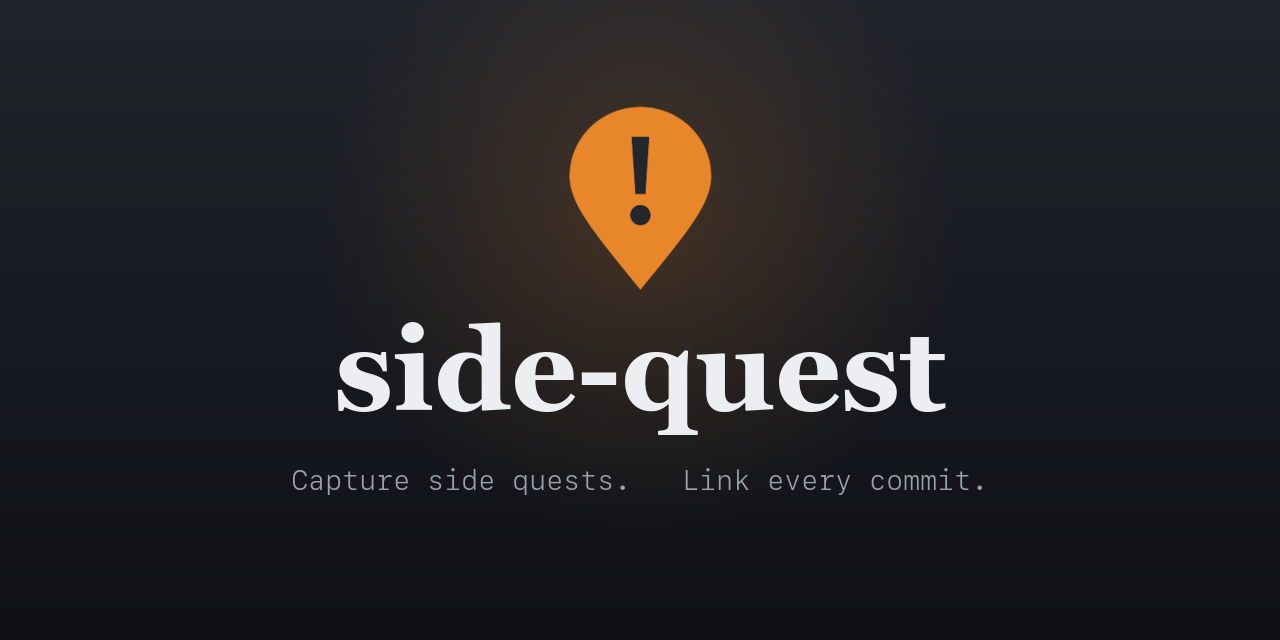
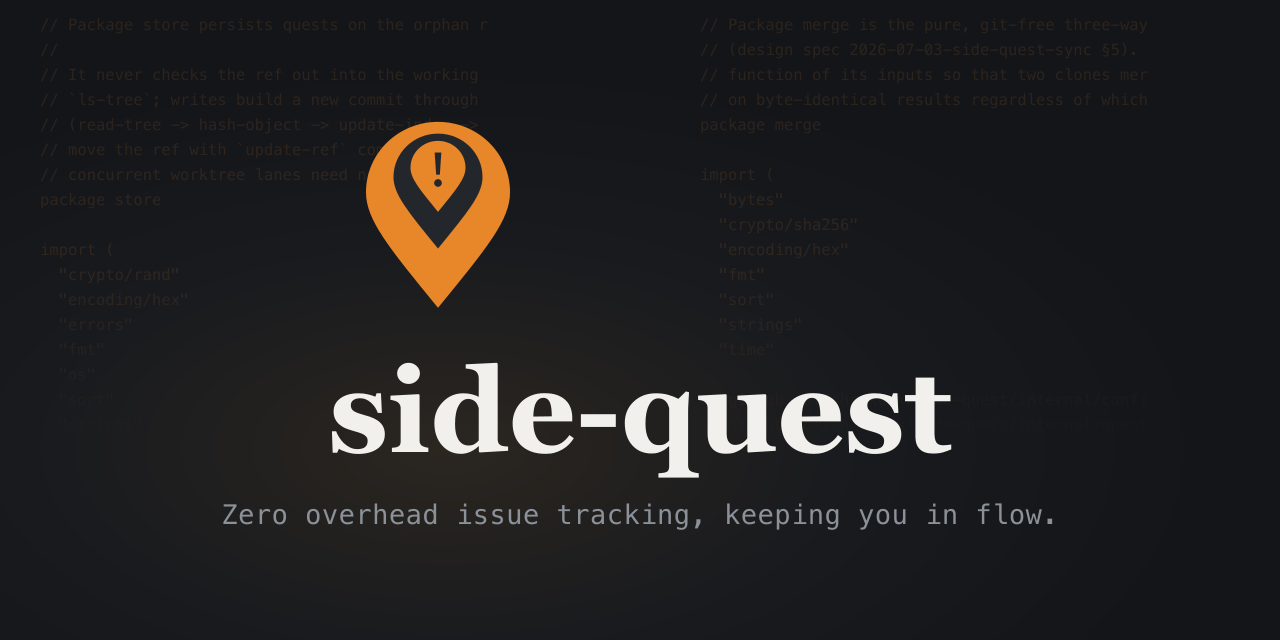
docs: redesign social card with recursive pin + code backdrop (SQ-0061)
Replace the social preview card. The mark is now a self-referencing pin:
its '!' stem is a smaller pin, nested twice at a golden-ratio step down,
with a single '!' at the core. The pin sits above the "side" glyphs, a
dimmed two-column code backdrop (store.go + merge.go) fills the top half
and fades out below, and the new catchphrase reads "Zero overhead issue
tracking, keeping you in flow."

Add docs/social-card.gen.py so the card is reproducible — it emits the SVG
(paths resolve relative to the repo root); render to PNG with rsvg-convert.

Completes: SQ-0061

Claude-Session: https://claude.ai/code/session_01JZYTSMds932GAvtVwWW5Ws

Changed region(s): [[0.2812, 0.0, 0.6562, 0.5], [0.1562, 0.5, 0.8125, 0.8438], [0.5312, 0.8125, 0.5625, 0.8438]]

diff --git a/docs/social-card.gen.py b/docs/social-card.gen.py
@@ -1,0 +1,101 @@
+#!/usr/bin/env python3
+"""Generate the side-quest social preview card (docs/social-card.png), SQ-0061.
+
+Emits the card SVG to stdout. Source-code backdrop is read from the repo, so
+run it from anywhere — paths resolve relative to this file. Regenerate with:
+
+    python3 docs/social-card.gen.py > docs/social-card.svg
+    rsvg-convert -w 1280 -h 640 docs/social-card.svg -o docs/social-card.png
+
+Fonts used (system): Georgia (wordmark), Menlo (backdrop + catchphrase).
+"""
+import html, sys
+from pathlib import Path
+
+ROOT = Path(__file__).resolve().parent.parent  # repo root (docs/..)
+
+W, H = 1280, 640
+ORANGE = "#e8862a"
+INK = "#23262b"
+WORD = "#f2f0ec"
+TAG = "#8a9199"
+
+# The brand mark, a location pin containing an exclamation, in a 64x64 space.
+PIN = ("M32 4.5c11.9 0 21.5 9.4 21.5 21 0 8.2-6.6 16.3-21.5 34.5"
+       "C17.1 41.8 10.5 33.7 10.5 25.5c0-11.6 9.6-21 21.5-21Z")
+BANG = "M29.4 13.6h5.2l-1.15 17.3h-2.9Z"
+
+# --- recursive mark: a pin whose '!' stem is a smaller pin (Droste) --------
+# n = number of pins (outer + inner). n=3 -> outer + two inner marks.
+K = (5 ** 0.5 - 1) / 2   # 1/phi ~ 0.618: each inner pin is a golden-ratio step down
+CY = 25.0                # nested-pin centre (parent space)
+
+def mark(n):
+    pin_fill = ORANGE if n % 2 == 1 else INK
+    ink_fill = INK if n % 2 == 1 else ORANGE
+    parts = [f'<path fill="{pin_fill}" d="{PIN}"/>']
+    if n > 1:
+        tx, ty = 32 - 32 * K, CY - 32 * K
+        parts.append(f'<g transform="translate({tx:.3f},{ty:.3f}) scale({K})">'
+                     f'{mark(n-1)}</g>')
+    else:
+        # only the innermost pin carries a '!' (bar + dot); no trailing dots
+        parts.append(f'<path fill="{ink_fill}" d="{BANG}"/>')
+        parts.append(f'<circle fill="{ink_fill}" cx="32" cy="37.4" r="3"/>')
+    return "".join(parts)
+
+# --- source-code backdrop (two columns, top half, faded out below) ---------
+def col(rel, start, count, x, width=48):
+    out = []
+    y = 30
+    lines = (ROOT / rel).read_text().splitlines()
+    for ln in lines[start:start + count]:
+        ln = ln.replace("\t", "  ")[:width]
+        out.append(f'<text x="{x}" y="{y}" xml:space="preserve">{html.escape(ln)}</text>')
+        y += 25
+    return "\n".join(out)
+
+code = col("internal/store/store.go", 0, 22, 40) + "\n" + \
+       col("internal/merge/merge.go", 0, 22, 700)
+
+svg = f'''<svg xmlns="http://www.w3.org/2000/svg" width="{W}" height="{H}" viewBox="0 0 {W} {H}">
+  <defs>
+    <radialGradient id="glow" cx="35%" cy="70%" r="60%">
+      <stop offset="0%" stop-color="#2b2620"/>
+      <stop offset="55%" stop-color="#181a1e"/>
+      <stop offset="100%" stop-color="#131519"/>
+    </radialGradient>
+    <linearGradient id="codefade" x1="0" y1="0" x2="0" y2="1">
+      <stop offset="0%" stop-color="#fff" stop-opacity="1"/>
+      <stop offset="42%" stop-color="#fff" stop-opacity="1"/>
+      <stop offset="70%" stop-color="#fff" stop-opacity="0"/>
+    </linearGradient>
+    <mask id="topfade"><rect width="{W}" height="{H}" fill="url(#codefade)"/></mask>
+  </defs>
+
+  <rect width="{W}" height="{H}" fill="#131519"/>
+  <rect width="{W}" height="{H}" fill="url(#glow)"/>
+
+  <!-- dimmed project code: fills the top half, fades into the bottom -->
+  <g mask="url(#topfade)" font-family="Menlo, monospace" font-size="15.5"
+     fill="{ORANGE}" opacity="0.12">
+    {code}
+  </g>
+
+  <!-- recursive mark, above the 'side' glyphs -->
+  <g transform="translate(438,214) scale(3.35)">
+    <g transform="translate(-32,-32)">
+      {mark(3)}
+    </g>
+  </g>
+
+  <!-- wordmark -->
+  <text x="640" y="452" text-anchor="middle" font-family="Georgia, serif"
+        font-weight="bold" font-size="118" fill="{WORD}">side-quest</text>
+
+  <!-- catchphrase -->
+  <text x="640" y="524" text-anchor="middle" font-family="Menlo, monospace"
+        font-size="27" fill="{TAG}" letter-spacing="0.5">Zero overhead issue tracking, keeping you in flow.</text>
+</svg>'''
+
+sys.stdout.write(svg)